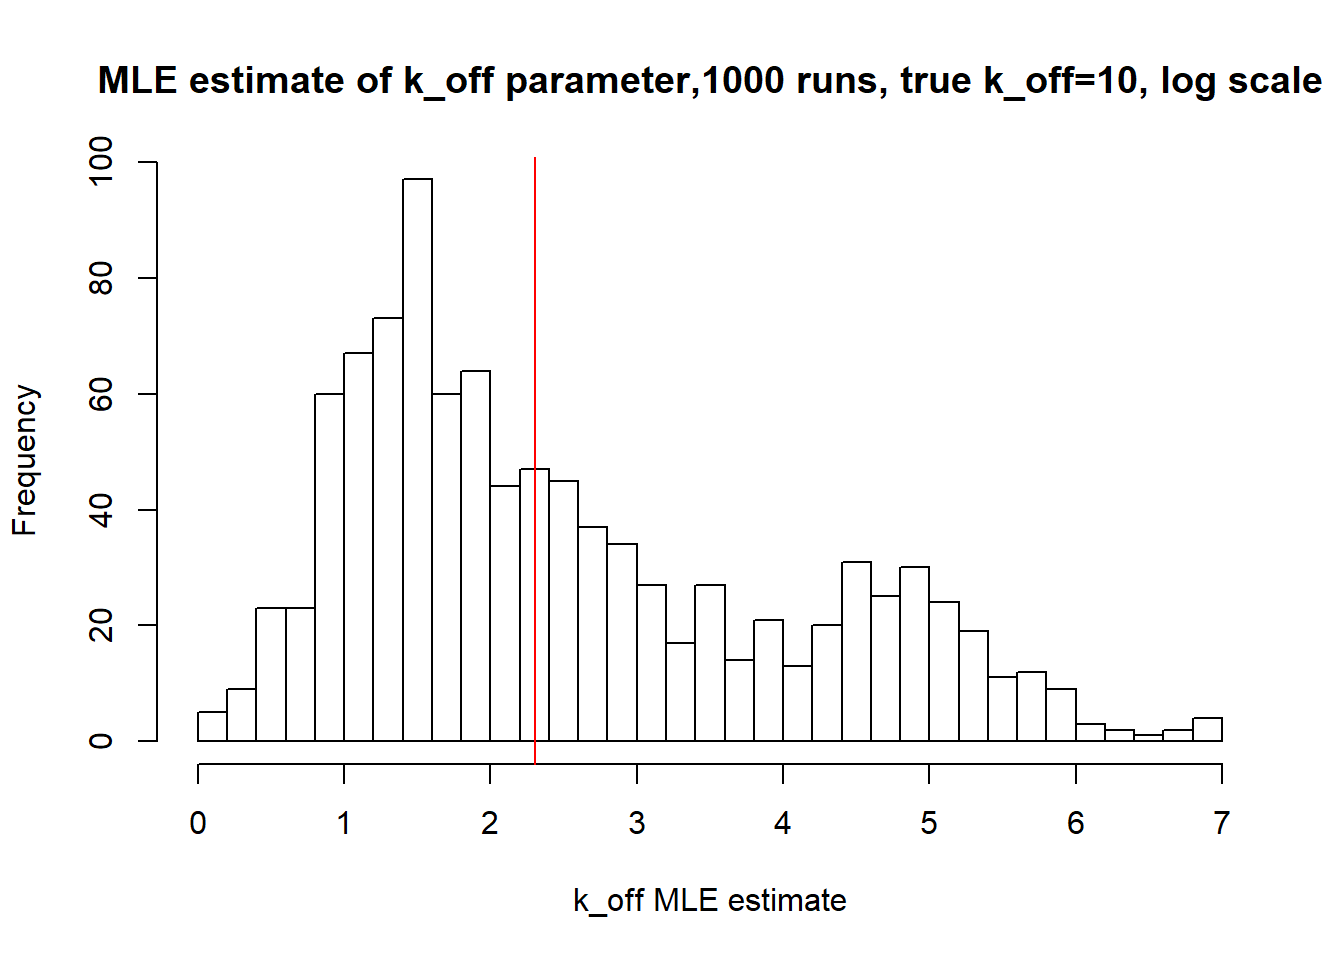
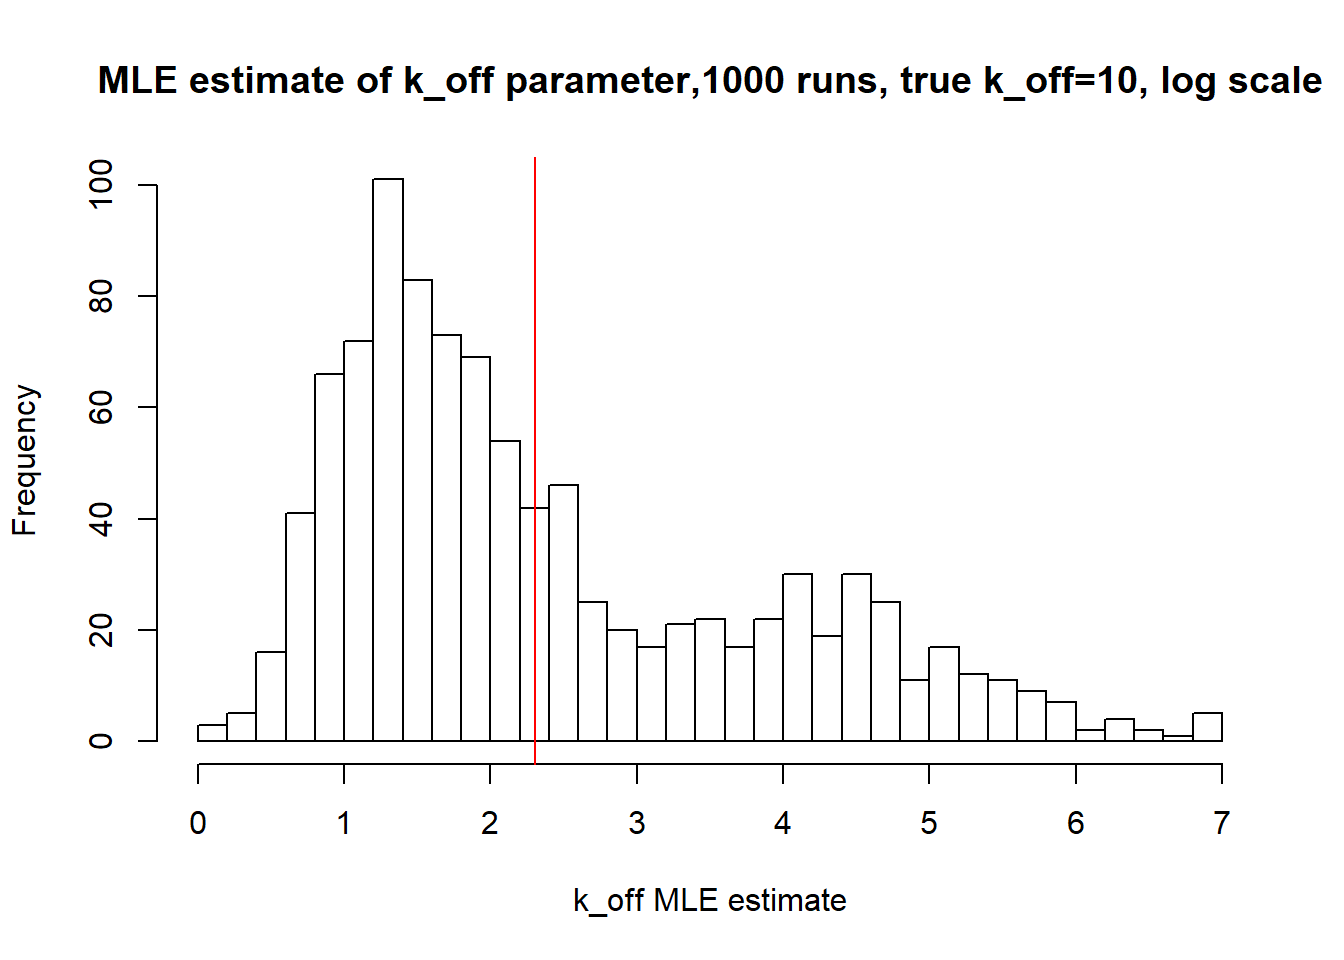
Build site.

diff --git a/docs/MLE_estimates.html b/docs/MLE_estimates.html
@@ -459,10 +459,10 @@ analysis/MLE.py
 <div class="panel panel-default">
 <div class="panel-heading">
 <p class="panel-title">
-<a data-toggle="collapse" data-parent="#workflowr-checks" href="#strongRepositoryversionstrongahrefhttpsgithubcomMargareth2407ThesissingleRNAtree610ce4ca86fad12bb9c42ee446c69ca065f2ddd4targetblank610ce4ca"> <span class="glyphicon glyphicon-ok text-success" aria-hidden="true"></span> <strong>Repository version:</strong> <a href="https://github.com/Margareth2407/Thesis_single_RNA/tree/610ce4ca86fad12bb9c42ee446c69ca065f2ddd4" target="_blank">610ce4c</a> </a>
+<a data-toggle="collapse" data-parent="#workflowr-checks" href="#strongRepositoryversionstrongahrefhttpsgithubcomMargareth2407ThesissingleRNAtreed35b4d23e23c9e0aa3e093ec71a4104aa87ba75etargetblankd35b4d2a"> <span class="glyphicon glyphicon-ok text-success" aria-hidden="true"></span> <strong>Repository version:</strong> <a href="https://github.com/Margareth2407/Thesis_single_RNA/tree/d35b4d23e23c9e0aa3e093ec71a4104aa87ba75e" target="_blank">d35b4d2</a> </a>
 </p>
 </div>
[2 lines of base64/hex data omitted]
 <div class="panel-body">
 <p>
 Great! You are using Git for version control. Tracking code development and connecting the code version to the results is critical for reproducibility. The version displayed above was the version of the Git repository at the time these results were generated. <br><br> Note that you need to be careful to ensure that all relevant files for the analysis have been committed to Git prior to generating the results (you can use <code>wflow_publish</code> or <code>wflow_git_commit</code>). workflowr only checks the R Markdown file, but you know if there are other scripts or data files that it depends on. Below is the status of the Git repository when the results were generated:
@@ -474,6 +474,7 @@ Ignored files:
     Ignored:    .Rproj.user/
     Ignored:    analysis/.RData
     Ignored:    analysis/.Rhistory
+    Ignored:    analysis/figure/
 
 Untracked files:
     Untracked:  analysis/MLE_bootstrap.py
@@ -511,44 +512,44 @@ There are no past versions. Publish this analysis with <code>wflow_publish()</co
 <div id="i-small-k_on-and-k_off-case" class="section level2">
 <h2>I) Small <span class="math inline">\(k_{on}\)</span> and <span class="math inline">\(k_{off}\)</span> case:</h2>
 <p><img src="figure/MLE_estimates.Rmd/unnamed-chunk-2-1.png" width="672" style="display: block; margin: auto;" /></p>
-<pre><code>[1] &quot;true k_on is 0.1; k_on mean 0.102 k_on median 0.101&quot;</code></pre>
+<pre><code>[1] &quot;true k_on is 0.1; k_on mean 0.101 k_on median 0.1&quot;</code></pre>
 <p><img src="figure/MLE_estimates.Rmd/unnamed-chunk-2-2.png" width="672" style="display: block; margin: auto;" /></p>
-<pre><code>[1] &quot;true k_off is 0.1; k_off mean 0.102 k_off median 0.099&quot;</code></pre>
+<pre><code>[1] &quot;true k_off is 0.1; k_off mean 0.103 k_off median 0.1&quot;</code></pre>
 <p><img src="figure/MLE_estimates.Rmd/unnamed-chunk-2-3.png" width="672" style="display: block; margin: auto;" /></p>
-<pre><code>[1] &quot;true k_r is 100; k_r mean 99.903 k_r median 99.873&quot;</code></pre>
+<pre><code>[1] &quot;true k_r is 100; k_r mean 100.012 k_r median 99.961&quot;</code></pre>
 <p><img src="figure/MLE_estimates.Rmd/unnamed-chunk-2-4.png" width="672" style="display: block; margin: auto;" /><img src="figure/MLE_estimates.Rmd/unnamed-chunk-2-5.png" width="672" style="display: block; margin: auto;" /><img src="figure/MLE_estimates.Rmd/unnamed-chunk-2-6.png" width="672" style="display: block; margin: auto;" /></p>
 <p>Small <span class="math inline">\(k_{on}\)</span> and <span class="math inline">\(k_{off}\)</span> leads to bimodal distribution. As we see from histograms, mean and median MLE estimates are centered around true value.</p>
 </div>
 <div id="ii-large-k_on-and-k_off-case" class="section level2">
 <h2>II) Large <span class="math inline">\(k_{on}\)</span> and <span class="math inline">\(k_{off}\)</span> case:</h2>
 <p><img src="figure/MLE_estimates.Rmd/unnamed-chunk-3-1.png" width="672" style="display: block; margin: auto;" /></p>
-<pre><code>[1] &quot;true k_on is 10; k_on mean 11.386 k_on median 10.091&quot;</code></pre>
+<pre><code>[1] &quot;true k_on is 10; k_on mean 11.387 k_on median 9.717&quot;</code></pre>
 <p><img src="figure/MLE_estimates.Rmd/unnamed-chunk-3-2.png" width="672" style="display: block; margin: auto;" /></p>
-<pre><code>[1] &quot;true k_off is 10; k_off mean 65.183 k_off median 9.183&quot;</code></pre>
+<pre><code>[1] &quot;true k_off is 10; k_off mean 63.487 k_off median 9.119&quot;</code></pre>
 <p><img src="figure/MLE_estimates.Rmd/unnamed-chunk-3-3.png" width="672" style="display: block; margin: auto;" /></p>
-<pre><code>[1] &quot;true k_r is 100; k_r mean 240.771 k_r median 97.59&quot;</code></pre>
+<pre><code>[1] &quot;true k_r is 100; k_r mean 227.561 k_r median 97.168&quot;</code></pre>
 <p><img src="figure/MLE_estimates.Rmd/unnamed-chunk-3-4.png" width="672" style="display: block; margin: auto;" /><img src="figure/MLE_estimates.Rmd/unnamed-chunk-3-5.png" width="672" style="display: block; margin: auto;" /><img src="figure/MLE_estimates.Rmd/unnamed-chunk-3-6.png" width="672" style="display: block; margin: auto;" /></p>
 <p>Large <span class="math inline">\(k_{on}\)</span> and <span class="math inline">\(k_{off}\)</span> case lead to Poisson or negative binomial distribution and as we can see parameters are not identifiable.</p>
 </div>
 <div id="iii-large-value-if-k_off-and-small-k_on-case" class="section level2">
 <h2>III) Large value if <span class="math inline">\(k_{off}\)</span> and small <span class="math inline">\(k_{on}\)</span> case:</h2>
 <p><img src="figure/MLE_estimates.Rmd/unnamed-chunk-4-1.png" width="672" style="display: block; margin: auto;" /></p>
-<pre><code>[1] &quot;true k_on is 1; k_on mean 1.011 k_on median 0.995&quot;</code></pre>
+<pre><code>[1] &quot;true k_on is 1; k_on mean 0.988 k_on median 0.97&quot;</code></pre>
 <p><img src="figure/MLE_estimates.Rmd/unnamed-chunk-4-2.png" width="672" style="display: block; margin: auto;" /></p>
-<pre><code>[1] &quot;true k_off is 10; k_off mean 45.965 k_off median 8.014&quot;</code></pre>
+<pre><code>[1] &quot;true k_off is 10; k_off mean 41.022 k_off median 6.769&quot;</code></pre>
 <p><img src="figure/MLE_estimates.Rmd/unnamed-chunk-4-3.png" width="672" style="display: block; margin: auto;" /></p>
-<pre><code>[1] &quot;true k_r is 100; k_r mean 368.906 k_r median 83.874&quot;</code></pre>
+<pre><code>[1] &quot;true k_r is 100; k_r mean 342.379 k_r median 71.612&quot;</code></pre>
 <p><img src="figure/MLE_estimates.Rmd/unnamed-chunk-4-4.png" width="672" style="display: block; margin: auto;" /><img src="figure/MLE_estimates.Rmd/unnamed-chunk-4-5.png" width="672" style="display: block; margin: auto;" /><img src="figure/MLE_estimates.Rmd/unnamed-chunk-4-6.png" width="672" style="display: block; margin: auto;" /></p>
 <p>k_on parameter being estimated correctly, while k_off and k_r are non-identifiable.</p>
 </div>
 <div id="iv-small-value-if-k_off-and-big-k_on" class="section level2">
 <h2>IV) Small value if <span class="math inline">\(k_{off}\)</span> and big <span class="math inline">\(k_{on}\)</span></h2>
 <p><img src="figure/MLE_estimates.Rmd/unnamed-chunk-5-1.png" width="672" style="display: block; margin: auto;" /></p>
-<pre><code>[1] &quot;true k_on is 10; k_on mean 15.53 k_on median 10&quot;</code></pre>
+<pre><code>[1] &quot;true k_on is 10; k_on mean 16.4 k_on median 10.8&quot;</code></pre>
 <p><img src="figure/MLE_estimates.Rmd/unnamed-chunk-5-2.png" width="672" style="display: block; margin: auto;" /></p>
-<pre><code>[1] &quot;true k_off is 1; k_off mean 6.12 k_off median 0.999&quot;</code></pre>
+<pre><code>[1] &quot;true k_off is 1; k_off mean 6.449 k_off median 1.362&quot;</code></pre>
 <p><img src="figure/MLE_estimates.Rmd/unnamed-chunk-5-3.png" width="672" style="display: block; margin: auto;" /></p>
-<pre><code>[1] &quot;true k_r is 100; k_r mean 101.827 k_r median 99.975&quot;</code></pre>
+<pre><code>[1] &quot;true k_r is 100; k_r mean 101.573 k_r median 99.572&quot;</code></pre>
 <p><img src="figure/MLE_estimates.Rmd/unnamed-chunk-5-4.png" width="672" style="display: block; margin: auto;" /><img src="figure/MLE_estimates.Rmd/unnamed-chunk-5-5.png" width="672" style="display: block; margin: auto;" /><img src="figure/MLE_estimates.Rmd/unnamed-chunk-5-6.png" width="672" style="display: block; margin: auto;" /></p>
 <p>Ref. <a href="https://www.nature.com/articles/s41586-018-0836-1" class="uri">https://www.nature.com/articles/s41586-018-0836-1</a></p>
 <br>
